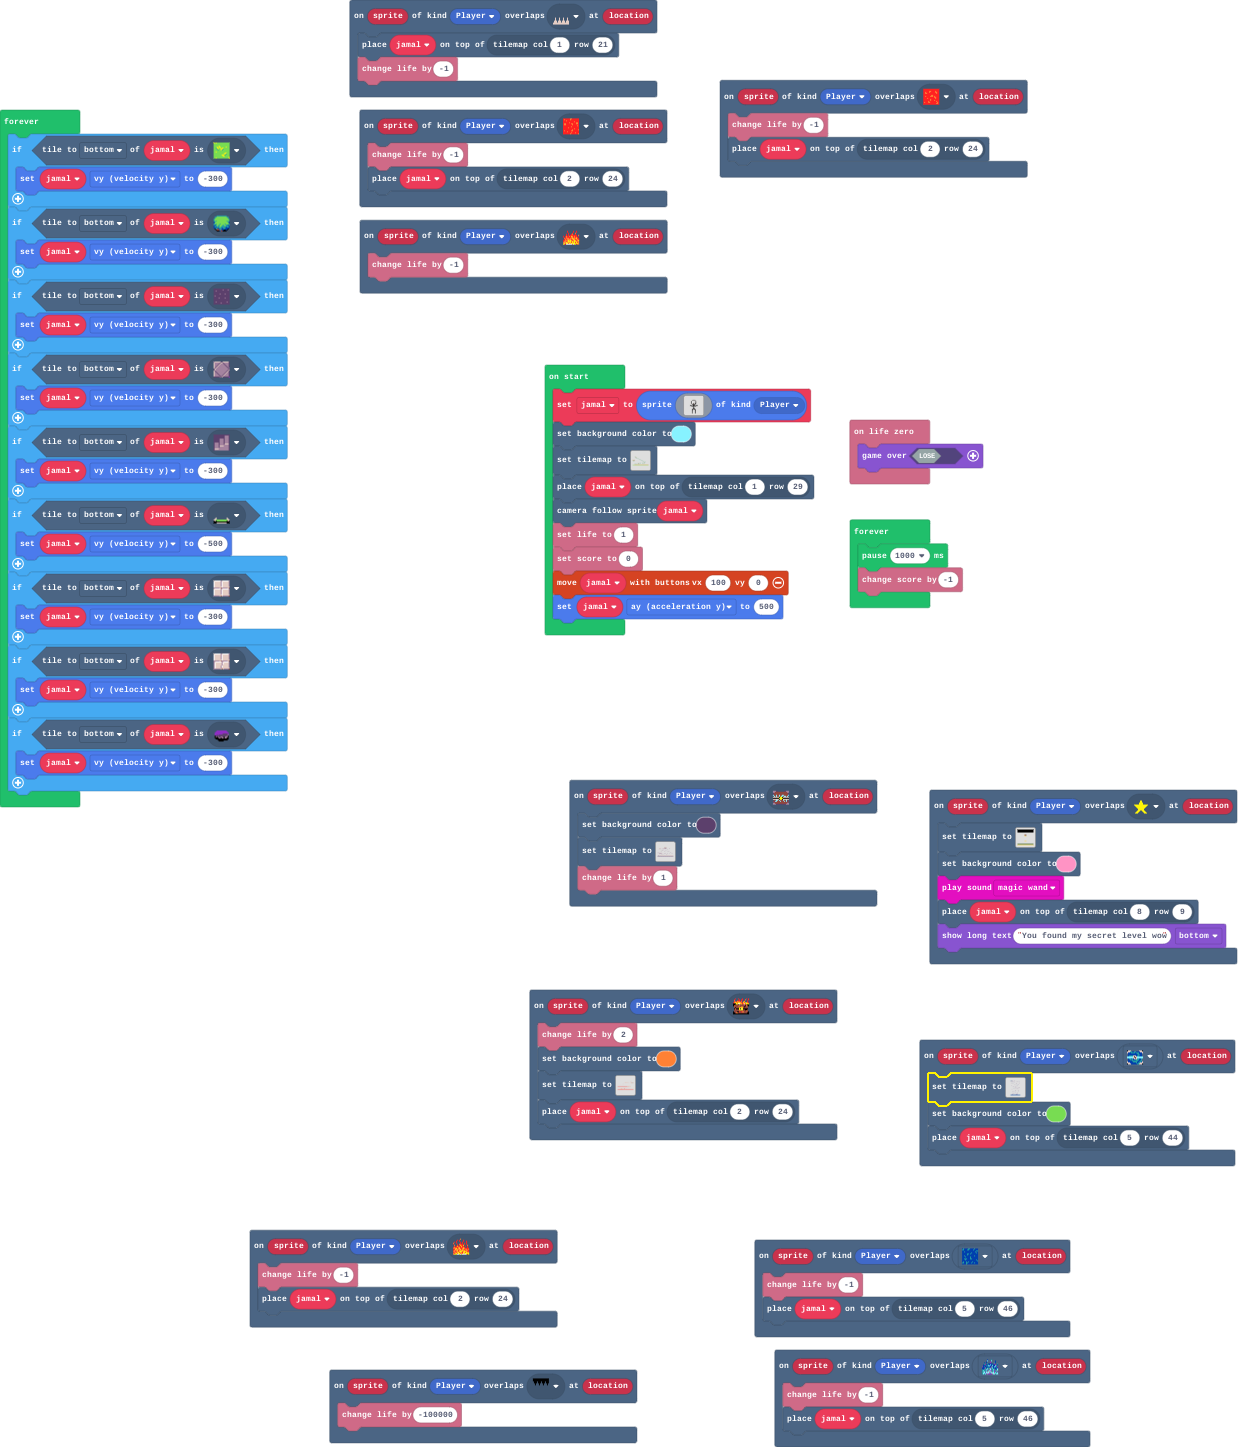
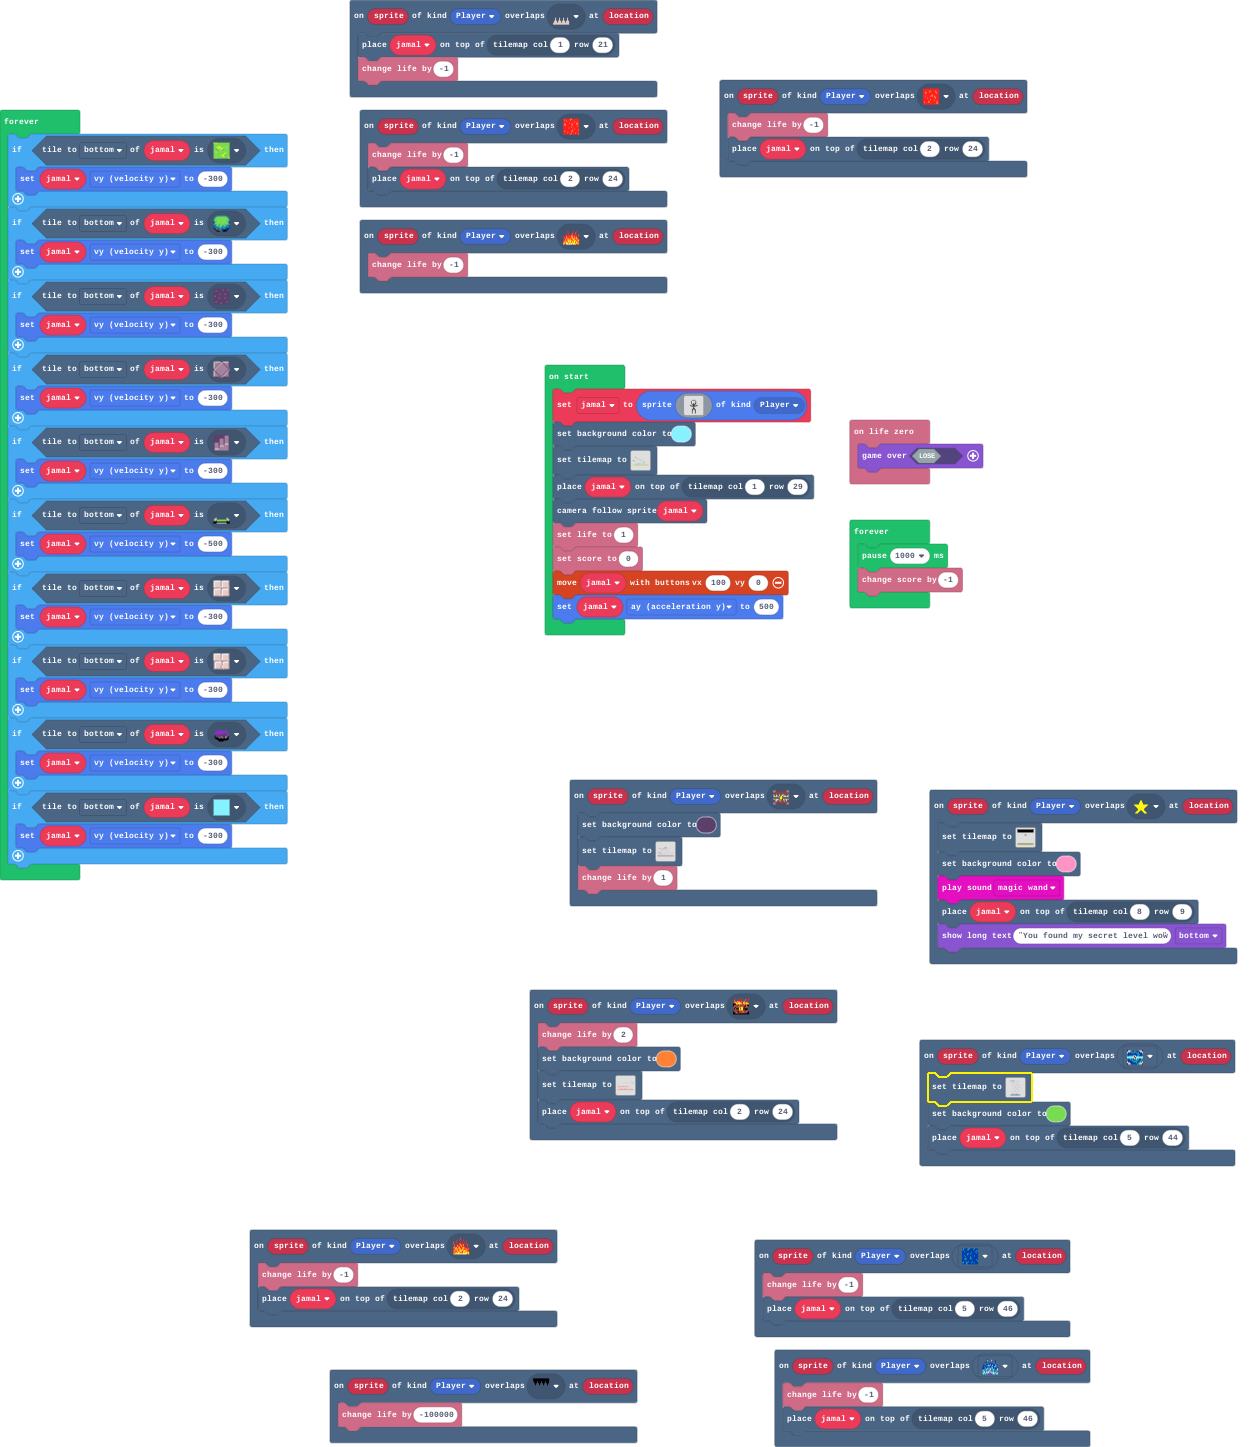
Update main.blocks, main.ts, tilemap.g.jres, tilemap.g.ts

Changed region(s): [[0.0, 0.5287, 0.2492, 0.622], [0.623, 0.9952, 0.8722, 1.0], [0.2804, 0.9952, 0.4984, 1.0]]

diff --git a/tilemap.g.ts b/tilemap.g.ts
@@ -54,81 +54,11 @@ namespace myTiles {
     export const tile25 = image.ofBuffer(hex``);
     //% fixedInstance jres blockIdentity=images._tile
     export const tile26 = image.ofBuffer(hex``);
+    //% fixedInstance jres blockIdentity=images._tile
+    export const tile27 = image.ofBuffer(hex``);
 
     helpers._registerFactory("tilemap", function(name: string) {
         switch(helpers.stringTrim(name)) {
-            case "level1":
-            case "level1":return tiles.createTilemap(hex`1000100003030303030303030303030303030303030303030303030303030303030303030606060606060606060606060606060600000000000000000000000000000000000000000000000000000000000000000000000000000001040000000000000000000000000000050500000000000000000000000000000000000000000000000000000000000000000000000000000000000000000000000000000000000000000000000000000000000000000000000000000000000005050000000000000000000000000000000000000000000000000000000000000000000000000000000202020202020202020202020202020205050505050505050505050505050505`, img`
-. . . . . . . . . . . . . . . . 
-. . . . . . . . . . . . . . . . 
-. . . . . . . . . . . . . . . . 
-. . . . . . . . . . . . . . . . 
-. . . . . . . . . . . . . . . . 
-. . . . . . . . . . . . . . . . 
-. . . . . . . . . . . . . . . . 
-. . . . . . . . . . . . . . . . 
-. . . . . . . . . . . . . . . . 
-. . . . . . . . . . . . . . . . 
-. . . . . . . . . . . . . . . . 
-. . . . . . . . . . . . . . . . 
-. . . . . . . . . . . . . . . . 
-. . . . . . . . . . . . . . . . 
-. . . . . . . . . . . . . . . . 
-. . . . . . . . . . . . . . . . 
-`, [myTiles.transparency16,myTiles.tile9,myTiles.tile10,myTiles.tile12,myTiles.tile17,myTiles.tile23,myTiles.tile24], TileScale.Sixteen);
-            case "level2":
[1 lines of base64/hex data omitted]
-..............................
-..............................
-..............................
-.....2........................
-.....2......2.................
-222222........................
-.......2............2.....2...
-..............................
-............2.................
-..............................
-..............................
-...2.......................2..
-.......2..........2...........
-..............................
-..............................
-..............................
-.............2..........2.....
-..............................
-....................2.........
-...2..........................
-..............................
-..............................
-........2.....2...............
-...................2..........
-..............................
-...........................2..
-...............2........2.....
-..............................
-..........2.........2.........
-..............................
-....2.........................
-..............................
-..............................
-........................2.....
-...............2..............
-..............................
-........................2.....
-.......2......................
-..............................
-..............2...............
-..............................
-..............................
-.....................2........
-.......2......................
-..............................
-...........2..................
-................222222........
-....2222......................
-..............................
-..............................
-`, [myTiles.transparency16,myTiles.tile2,sprites.dungeon.floorDark2,myTiles.tile16,myTiles.tile21,myTiles.tile22,myTiles.tile17], TileScale.Sixteen);
             case "level3":
             case "level3":return tiles.createTilemap(hex`28001800000000000000000000000000000000000000000000000000000000000000000000000000000000000000000000000000000000000000000000000000000000000000000000000000000000000000000000000000000000000000000000000000000006000006000000000000000000000000000000000000000000000000000000000000000000000003030303030300000000000000000000000000000000000000000004040404040000000004000004000303030300000000000000000300000000000000000000000000030303030300000003030303030000000000000000000000000000000000000000000000000000000000000000000000000000000000000000000000000000000000000000000000000000000000000000000000000000000000000000000000000000000003000000000000000000000000000000000000000000000000000000000300000000000003000000000000000000000000000000000000000000000000000000000000030000000000000000000000000000000000000000000000000000000000000000000000000700000000000000000000000000000000000000000000000000000000000000000000000000000003000000000000000003000000000003000000030000000000000000000000000000000000000000000000000000000000000000000000000000000000000000000000000000000000000000000000000000000000000000000000000000000000000000000000000000000000000000000000000000000000000000000000000000000000000000000000000000000300000000000000030303030004040004040400000000000000000000000000000000000000000000000000000000000000000003030303030303000000000000000000030000000003000000000000000000000300000000000000000000000000000000050000000300000000000000000000000003000000000000000000000000000000000000050000000300000000000000000000000000000000000000000000000000000000000000000000000300000000000000000000000000030000000000000000000000000000000000000000000300000000000000000000000000000000000000000000000000000000000000000000000000000000000000000000000000000000000000000000000000000000000000000000000000000000020005050505050505050504040404040404040404040404040404040404040404040404040401010101010101010101010101010101010101010101010101010101010101010101010101010101`, img`
 ........................................
@@ -156,41 +86,6 @@ namespace myTiles {
 ..2.....................................
 2222222222222222222222222222222222222222
 `, [myTiles.transparency16,sprites.dungeon.darkGroundCenter,sprites.dungeon.stairLarge,sprites.dungeon.floorDarkDiamond,myTiles.tile6,myTiles.tile7,myTiles.tile9,myTiles.tile10], TileScale.Sixteen);
-            case "level4":
-            case "level4":return tiles.createTilemap(hex`3200200000000000000000000000000000000000000000000000000000000000000000000000000000000000000000000000000000000000000000000000000000000000000000000000000000000000000000000000000000000000000000000000000000000000000000000000000000000000000000000000000000000000000000000000000000000000000000000000000000000000000000000000000000000000000000000000000000000000000000000000000000000000000000000000000000000000000000000000000000000000000000000000000000000000000000000000000000000000000000000000000000000000000000000000000000000000000202000000000000000000000000000000000000000000000000000000000000000000000000000000000000000000000000000004000000000000000000000000000000000000000000000000000000000000000000000000000000000000000000000000000202000000000000000000000000000000000000000000000000000000000000000000000000000000000000000000000000000004000000000000000000000000000000000000000000000000000000000000000000000000000000000000000000000000000202000000000000000000000000000000000000000000000000000000000000000000000000000000000000000000000000000000000200000000000000000000000000000000000000000000000000000000000000000000000000000000000000000000000000000002000000000000000000000000000000000000000000000000000000000000000000000000000000000000000000000000000000020000000000000000000000000000000000000000000000000000000000000000000000000000000000000500000000000000000200000000000000000000000000000000000000000000000000000000000000000000000005000000000000000000000000000002000000000000000000000000000000000000000000000000000004000000000004000000000000000000000000000000000000020000000000000000000000000000000000000000000000000204030303040200000000000000000000000000000000000000000200000000000000000000000000000000000000000000000200060002000000000000000000000000000000000000000000000002000000000000000000000000000000000000000000000202020000000000000000000000000000000000000000000000000000020000000000000000000000000000000000000000000000000000000000000000000000000000000000000000000000000000000200000000000000000000000000000000000000000000000000000000000000000000000000000000000000000000000000000002000000000000000000000000000000000000000000000000000000000000000000000000000000000000000000000000000000000002000000000000000000000000000000000000000000000000000000000000000000000000000000000000000000000000020000000000000000000000000000000000000000000000000000000000000000000000000000000000000000000000000200000000000000000000000000000000000000000000000000000000000000000000000000000000000000000000000400000000000000000000000000000000000000000000000000000000000000000000000000020202050505020202000002020200000000000000000000000000000000000000000000000000000000000202040402000000000000000000000000000000000000000000000000000000000000000000000002000200020002000000000002020000000000000000000000000000000000000000000000000000000000000000000000000000000000000000000000000000000000000000000000000000000000000000000000000000000000000000000000000000000000000000000000000000000000000000000000000000000000000000000000000000000000000000000000000000000004040404040404040404040404040404040404040404040404040404040404040404040404040404040404040101010101010101010101010101010101010101010101010101010101010101010101010101010101010101010101010101`, img`
-..................................................
-..................................................
-..................................................
-..................................................
-..................................................
-.......22.........................................
-..................................................
-.........22.......................................
-..................................................
-...........22.....................................
-...............2..................................
-.................2................................
-...................2..............................
-.....................2............................
-.......................2..........................
-.........................2........................
-2.....2....................2......................
-.2...2.......................2....................
-..222..........................2..................
-.................................2................
-...................................2..............
-.......................................2..........
-......................................2...........
-.....................................2............
-..................................................
-.......................222222222..222.............
-................22..2.............................
-......2.2.2.2.....22..............................
-..................................................
-..................................................
-..................................................
-22222222222222222222222222222222222222222222222222
-`, [myTiles.transparency16,sprites.castle.tileGrass3,sprites.builtin.forestTiles0,myTiles.tile1,myTiles.tile3,myTiles.tile4,myTiles.tile5], TileScale.Sixteen);
             case "level5":
[1 lines of base64/hex data omitted]
 ...............................................2.......
@@ -224,6 +119,113 @@ namespace myTiles {
 2222222222222222222...2222.............................
 2222222222222222222...2222.............................
 `, [myTiles.transparency16,myTiles.tile8,sprites.dungeon.floorLight4,myTiles.tile15,sprites.dungeon.floorLight0,myTiles.tile19,myTiles.tile16,myTiles.tile20,myTiles.tile26], TileScale.Sixteen);
+            case "level1":
+            case "level1":return tiles.createTilemap(hex`1000100002020202020202020202020202020202020202020202020202020202020202020404040404040404040404040404040400000000000000000000000000000000000000000000000000000000000000000000000000000005060000000000000000000000000000030300000000000000000000000000000000000000000000000000000000000000000000000000000000000000000000000000000000000000000000000000000000000000000000000000000000000003030000000000000000000000000000000000000000000000000000000000000000000000000000000101010101010101010101010101010103030303030303030303030303030303`, img`
+. . . . . . . . . . . . . . . . 
+. . . . . . . . . . . . . . . . 
+. . . . . . . . . . . . . . . . 
+. . . . . . . . . . . . . . . . 
+. . . . . . . . . . . . . . . . 
+. . . . . . . . . . . . . . . . 
+. . . . . . . . . . . . . . . . 
+. . . . . . . . . . . . . . . . 
+. . . . . . . . . . . . . . . . 
+. . . . . . . . . . . . . . . . 
+. . . . . . . . . . . . . . . . 
+. . . . . . . . . . . . . . . . 
+. . . . . . . . . . . . . . . . 
+. . . . . . . . . . . . . . . . 
+. . . . . . . . . . . . . . . . 
+. . . . . . . . . . . . . . . . 
+`, [myTiles.transparency16,myTiles.tile10,myTiles.tile12,myTiles.tile23,myTiles.tile24,myTiles.tile5,myTiles.tile26], TileScale.Sixteen);
+            case "level4":
+            case "level4":return tiles.createTilemap(hex`3200200000000000000000000000000000000000000000000000000000000000000000000000000000000000000000000000000000000000000000000000000000000000000000000000000000000000000000000000000000000000000000000000000000000000000000000000000000000000000000000000000000000000000000000000000000000000000000000000000000000000000000000000000000000000000000000000000000000000000000000000000000000000000000000000000000000000000000000000000000000000000000000000000000000000000000000000000000000000000000000000000000000000000000000000000000000000000202000000000000000000000000000000000000000000000000000000000000000000000000000000000000000000000000000004000000000000000000000000000000000000000000000000000000000000000000000000000000000000000000000000000202000000000000000000000000000000000000000000000000000000000000000000000000000000000000000000000000000004000000000000000000000000000000000000000000000000000000000000000000000000000000000000000000000000000202000000000000000000000000000000000000000000000000000000000000000000000000000000000000000000000000000000000200000000000000000000000000000000000000000000000000000000000000000000000000000000000000000000000000000002000000000000000000000000000000000000000000000000000000000000000000000000000000000000000000000000000000020000000000000000000000000000000000000000000000000000000000000000000000000000000000000500000000000000000200000000000000000000000000000000000000000000000000000000000000000000000005000000000000000000000000000002000000000000000000000000000000000000000000000000000004000000000004000000000000000000000000000000000000020000000000000000000000000000000000000000000000000204030303040200000000000000000000000000000000000000000200000000000000000000000000000000000000000000000200060002000000000000000000000000000000000000000000000002000000000000000000000000000000000000000000000202020000000000000000000000000000000000000000000000000000020000000000000000000000000000000000000000000000000000000000000000000000000000000000000000000000000000000200000000000000000000000000000000000000000000000000000000000000000000000000000000000000000000000000000002000000000000000000000000000000000000000000000000000000000000000000000000000000000000000000000000000000000002000000000000000000000000000000000000000000000000000000000000000000000000000000000000000000000000020000000000000000000000000000080000000000000000000000000000000000000000000000000000000000000000000200000000000000000000000000000000000000000000000000000000000000000000000000000000000000000000000400000000000000000000000000000000000000000000000000000000000000000000000000020202050505020202000002020200000000000000000000000000000000000000000000000000000000000202040402000000000000000000000000000000000000000000000000000000000000000000000002000200020002000000000002020000000000000000000000000000000000000000000000000000000000000000000000000000000000000000000000000000000000000000000000000000000000000000000000000000000000000000000000000000000000000000000000000000000000000000000000000000000000000000000000000000000000000000000007000000000004040404040404040404040404040404040404040404040404040404040404040404040404040404040404040101010101010101010101010101010101010101010101010101010101010101010101010101010101010101010101010101`, img`
+..................................................
+..................................................
+..................................................
+..................................................
+..................................................
+.......22.........................................
+..................................................
+.........22.......................................
+..................................................
+...........22.....................................
+...............2..................................
+.................2................................
+...................2..............................
+.....................2............................
+.......................2..........................
+.........................2........................
+2.....2....................2......................
+.2...2.......................2....................
+..2.2..........................2..................
+.................................2................
+...................................2..............
+.......................................2..........
+......................................2...........
+...2.................................2............
+..................................................
+.......................222222222..222.............
+................22..2.............................
+......2.2.2.2.....22..............................
+..................................................
+..................................................
+..................................................
+22222222222222222222222222222222222222222222222222
+`, [myTiles.transparency16,sprites.castle.tileGrass3,sprites.builtin.forestTiles0,myTiles.tile1,myTiles.tile3,myTiles.tile4,myTiles.tile5,myTiles.tile20,myTiles.tile27], TileScale.Sixteen);
+            case "level2":
[1 lines of base64/hex data omitted]
+..............................
+..............................
+..............................
+.....2........................
+.....2...2.22.................
+222222........................
+.......2............2.....2...
+..............................
+........2.2.2.................
+..............................
+..............................
+...2.......................2..
+.......2..........2...........
+..............................
+..............................
+..............................
+.............2..........2.....
+..............................
+....................2.........
+...2..........................
+.............................2
+..............................
+........2.....2...............
+...................2..........
+..............................
+...........................2..
+...............2........2.....
+..............................
+..........2...................
+....................2.........
+....2.........................
+..............................
+..............................
+........................2.....
+...............2..............
+..............................
+........................2.....
+.......2......................
+..............................
+..............2...............
+..............................
+..............................
+.....................2........
+.......2......................
+..............................
+...........2..................
+..............2.222222........
+....2222......................
+..............................
+..............................
+`, [myTiles.transparency16,myTiles.tile2,sprites.dungeon.floorDark2,myTiles.tile16,myTiles.tile21,myTiles.tile22,myTiles.tile17,myTiles.tile5], TileScale.Sixteen);
         }
         return null;
     })
@@ -257,6 +259,8 @@ namespace myTiles {
             case "tile24":return tile24;
             case "tile25":return tile25;
             case "tile26":return tile26;
+            case "myTile":
+            case "tile27":return tile27;
         }
         return null;
     })

diff --git a/main.ts b/main.ts
@@ -124,6 +124,9 @@ forever(function () {
     if (jamal.tileKindAt(TileDirection.Bottom, assets.tile`tile2`)) {
         jamal.vy = -300
     }
+    if (jamal.tileKindAt(TileDirection.Bottom, assets.tile`myTile`)) {
+        jamal.vy = -300
+    }
 })
 forever(function () {
     pause(1000)
